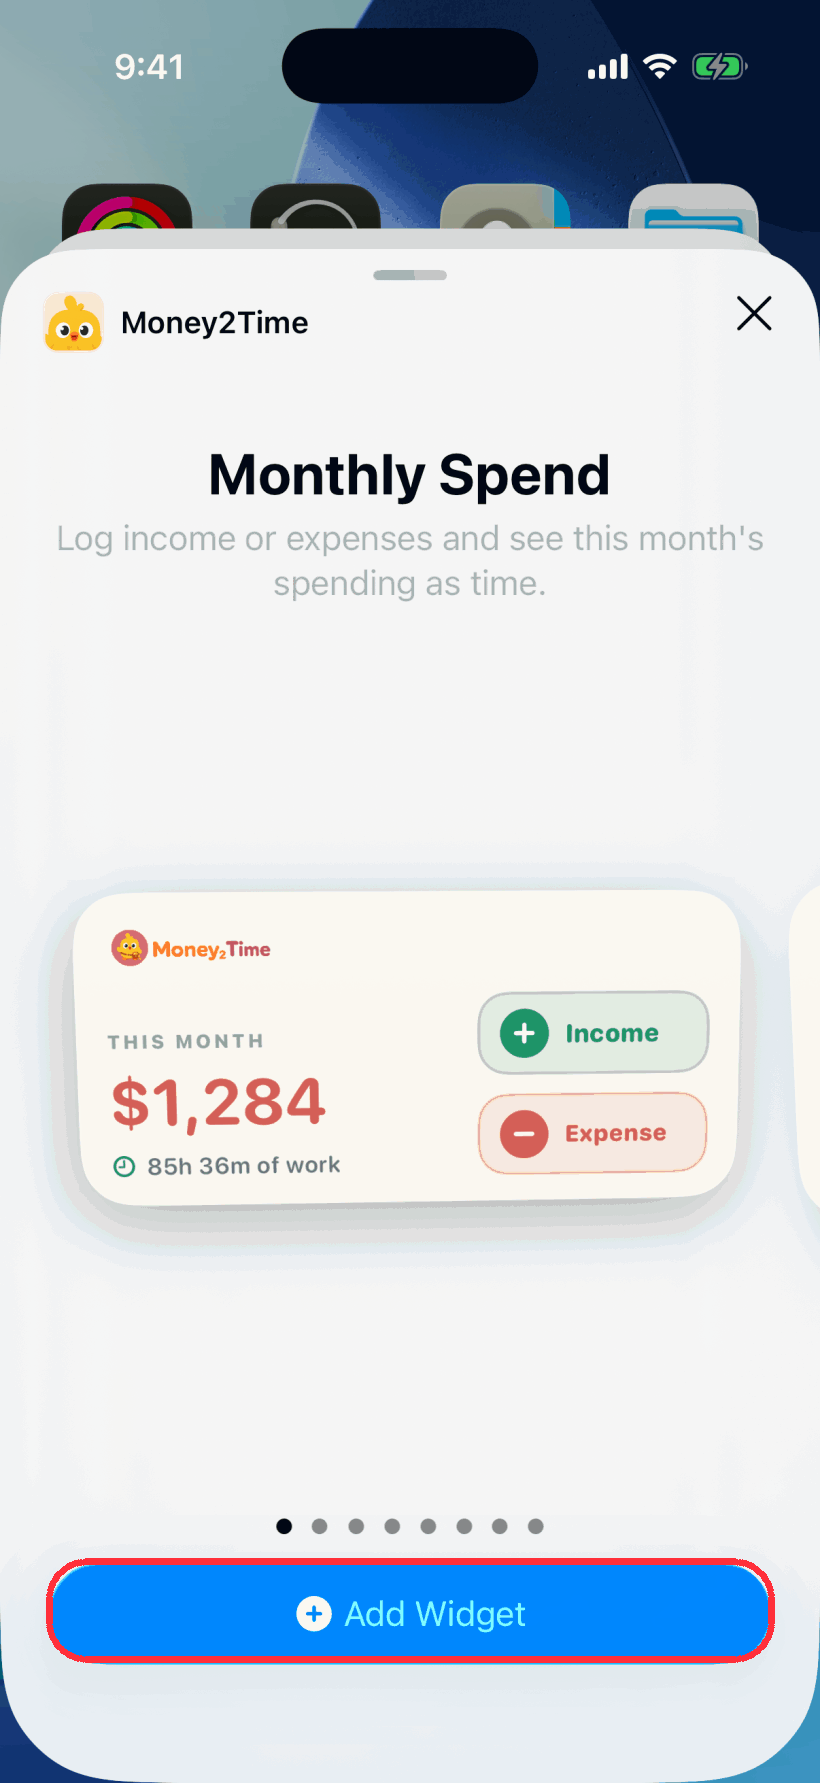
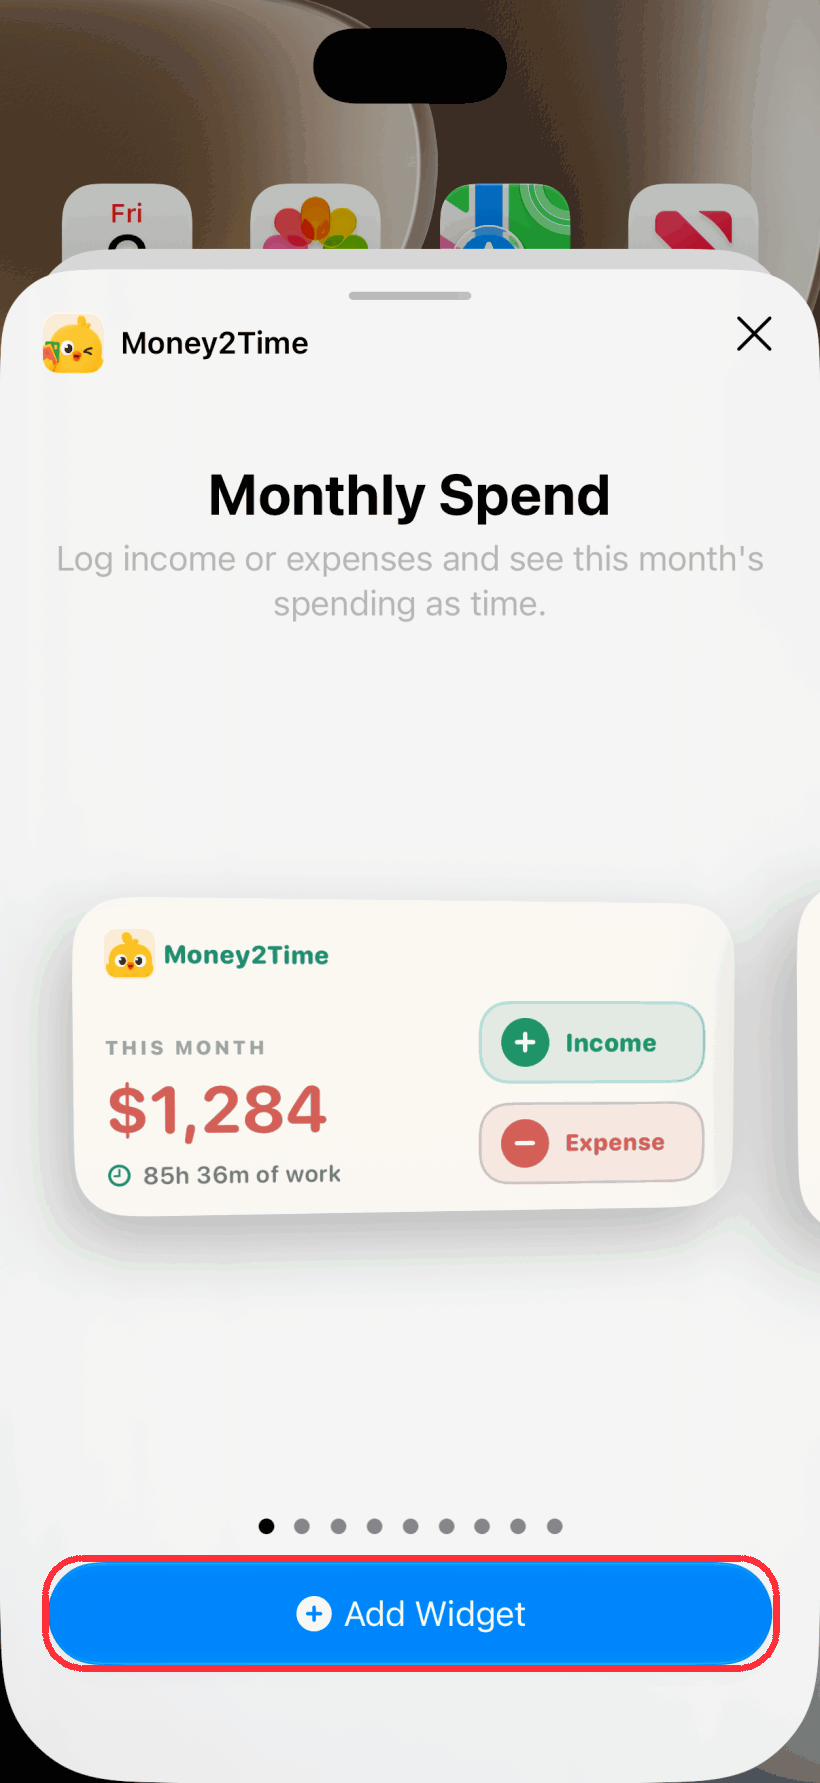
Refresh the iOS widget tutorial and repair website sync

diff --git a/__tests__/scripts/syncTutorialsWeb.test.ts b/__tests__/scripts/syncTutorialsWeb.test.ts
@@ -1,0 +1,37 @@
+import { spawnSync } from 'node:child_process';
+import { mkdirSync, mkdtempSync, readFileSync, rmSync, writeFileSync } from 'node:fs';
+import { tmpdir } from 'node:os';
+import path from 'node:path';
+
+import { PRO_LIMITS } from '../../constants/proLimits';
+
+it('syncs tutorials with shared plan limits and their actual images to the website', () => {
+  const root = path.resolve(__dirname, '../..');
+  const web = mkdtempSync(path.join(tmpdir(), 'money2time-tutorial-sync-'));
+
+  try {
+    mkdirSync(path.join(web, 'src/lib'), { recursive: true });
+    mkdirSync(path.join(web, 'public'), { recursive: true });
+    writeFileSync(path.join(web, 'package.json'), '{}');
+    writeFileSync(path.join(web, 'public/keep.txt'), 'outside the generated tutorial directory');
+
+    const result = spawnSync(
+      process.execPath,
+      [path.join(root, 'scripts/sync-tutorials-web.mjs'), '--web', web],
+      { encoding: 'utf8' },
+    );
+    expect(result.status).toBe(0);
+
+    const catalog = readFileSync(path.join(web, 'src/lib/tutorials.generated.ts'), 'utf8');
+    expect(catalog).toContain(`The free plan includes ${PRO_LIMITS.FREE_MAX_ACCOUNTS} accounts.`);
+    expect(catalog).toContain('Add the calendar');
+    expect(readFileSync(path.join(web, 'public/tutorials/widgets-4.png'))).toEqual(
+      readFileSync(path.join(root, 'assets/tutorials/widgets-4.png')),
+    );
+    expect(readFileSync(path.join(web, 'public/keep.txt'), 'utf8')).toBe(
+      'outside the generated tutorial directory',
+    );
+  } finally {
+    rmSync(web, { recursive: true, force: true });
+  }
+});

diff --git a/features/tutorials/content/insights.ts b/features/tutorials/content/insights.ts
@@ -101,7 +101,7 @@ export const INSIGHTS_TUTORIALS: Tutorial[] = [
     id: 'widgets',
     category: 'insights',
     title: 'Add a home screen widget',
-    summary: 'Log an expense without opening the app.',
+    summary: 'Log from your home screen and check daily income and spending.',
     platform: 'ios',
     keywords: ['widget', 'home screen', 'lock screen', 'shortcut', 'ios', 'monthly spend'],
     steps: [
@@ -113,12 +113,17 @@ export const INSIGHTS_TUTORIALS: Tutorial[] = [
       {
         image: 'widgets-2',
         title: 'Find Money2Time',
-        body: 'Search for it, then swipe through the sizes. There are widgets for monthly spend, budgets, goals, and more.',
+        body: 'Search for Money2Time and swipe through the choices. Choose Monthly Spend and tap Add Widget to put the Income and Expense buttons on your home screen.',
       },
       {
         image: 'widgets-3',
         title: 'Log straight from it',
         body: 'The Income and Expense buttons open the entry screen. The rest of the widget updates as you log.',
+      },
+      {
+        image: 'widgets-4',
+        title: 'Add the calendar',
+        body: 'Repeat the same steps and choose Calendar to see daily income and spending for the month. Calendar and other widgets with a Pro badge require Pro.',
       },
     ],
   },

diff --git a/features/tutorials/content/images.generated.ts b/features/tutorials/content/images.generated.ts
@@ -175,4 +175,5 @@ export const TUTORIAL_IMAGE_SOURCES: Record<string, ImageSourcePropType> = {
   'widgets-1': require('~/assets/tutorials/widgets-1.png'),
   'widgets-2': require('~/assets/tutorials/widgets-2.png'),
   'widgets-3': require('~/assets/tutorials/widgets-3.png'),
+  'widgets-4': require('~/assets/tutorials/widgets-4.png'),
 };
